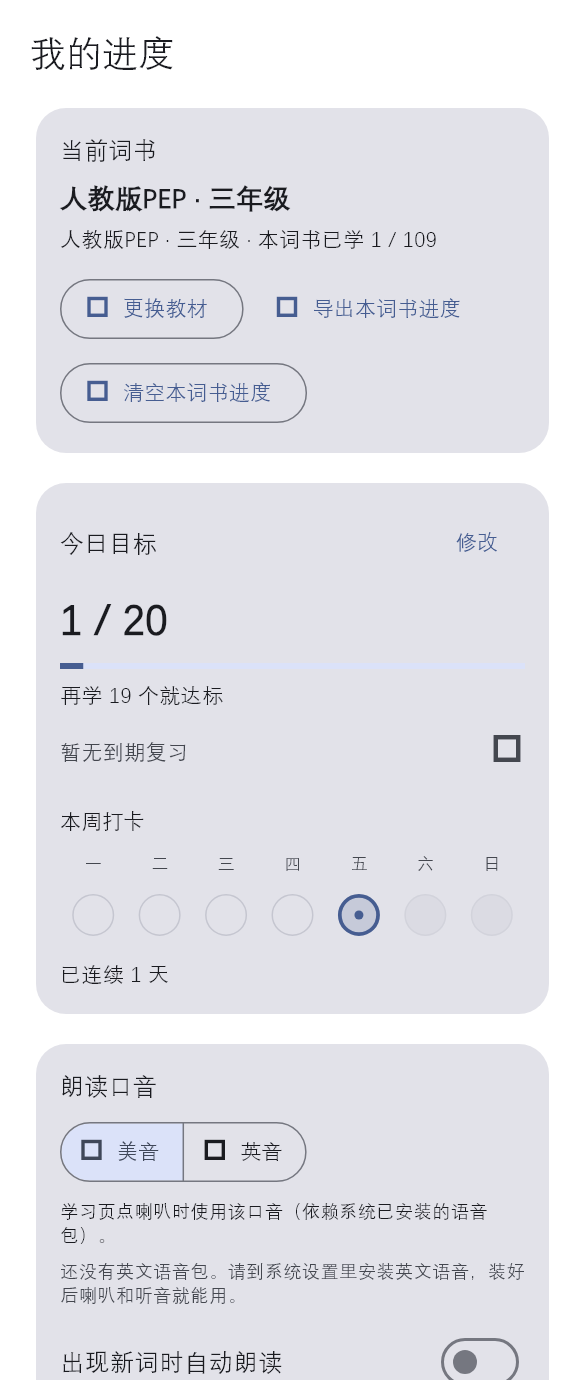
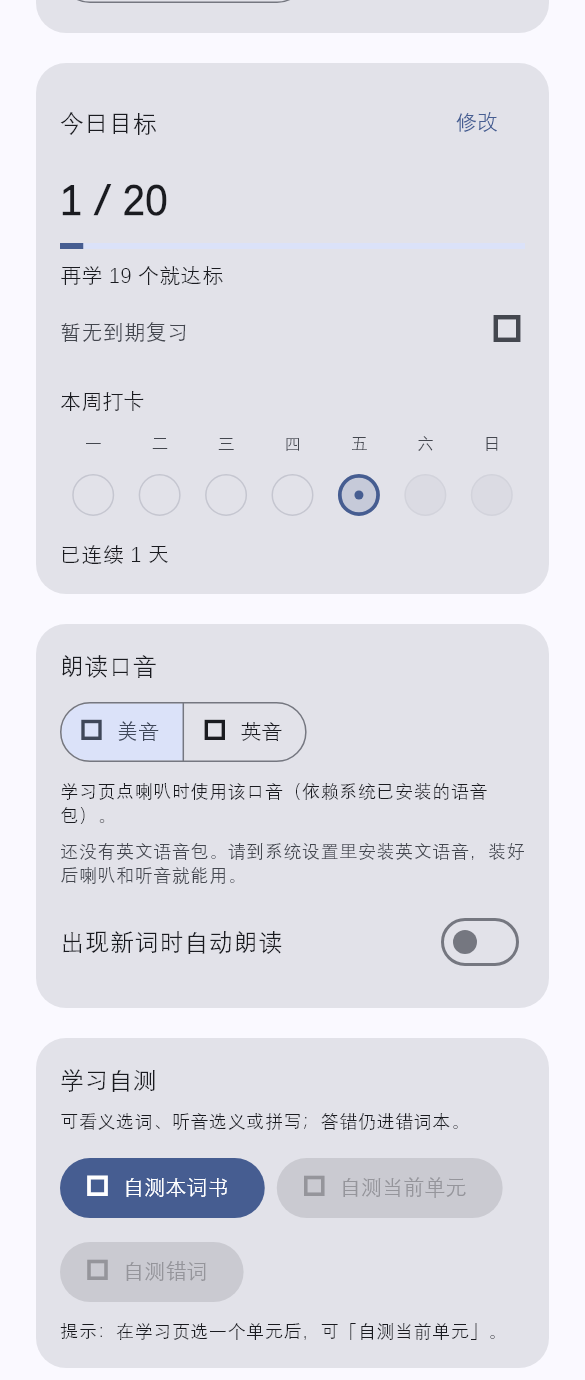
fix: accent-tts true light shot for UI reverify
Force ThemeMode.light + platformBrightness.light; paint surface
ColoredBox inside RepaintBoundary (no black letterbox); scroll
accent hint fully into frame. Acceptance 待复验.

diff --git a/test/accent_tts_shot_test.dart b/test/accent_tts_shot_test.dart
@@ -35,6 +35,7 @@ void main() {
   Future<void> capture(
     WidgetTester tester, {
     required ThemeData theme,
+    required Brightness brightness,
     required String outName,
   }) async {
     SharedPreferences.setMockInitialValues({
@@ -47,20 +48,28 @@ void main() {
     });
     tester.view.physicalSize = const Size(390, 920);
     tester.view.devicePixelRatio = 1.0;
+    tester.platformDispatcher.platformBrightnessTestValue = brightness;
     addTearDown(tester.view.resetPhysicalSize);
     addTearDown(tester.view.resetDevicePixelRatio);
+    addTearDown(tester.platformDispatcher.clearPlatformBrightnessTestValue);
     await tester.pumpWidget(const SizedBox.shrink());
     await tester.pump();
     final store = await ProgressStore.open();
     final speaker = FakeWordSpeaker()..voiceAvailable = false;
+    final themed = withCjk(theme);
     await tester.pumpWidget(
       MaterialApp(
         key: ValueKey(outName),
-        theme: withCjk(theme),
+        theme: themed,
+        darkTheme: themed,
+        themeMode: brightness == Brightness.dark ? ThemeMode.dark : ThemeMode.light,
         home: Scaffold(
+          backgroundColor: themed.colorScheme.surface,
           body: RepaintBoundary(
             key: const ValueKey('shot_root'),
-            child: MeScreen(
+            child: ColoredBox(
+              color: themed.colorScheme.surface,
+              child: MeScreen(
               key: ValueKey('me_$outName'),
               store: store,
               repo: WordbookRepository(),
@@ -73,6 +82,7 @@ void main() {
               onQuizUnit: () {},
               onQuizWrong: () {},
               onStartDueReview: () {},
+            ),
             ),
           ),
         ),
@@ -89,6 +99,12 @@ void main() {
       await tester.pump(const Duration(milliseconds: 50));
     }
     expect(find.byKey(const ValueKey('me_accent_tts_hint')), findsOneWidget);
+    // Bring accent card fully into view (hint near bottom of card).
+    final list = find.byType(Scrollable);
+    if (list.evaluate().isNotEmpty) {
+      await tester.drag(list.first, const Offset(0, -280));
+      await tester.pump(const Duration(milliseconds: 200));
+    }
 
     await tester.runAsync(() async {
       final boundary =
@@ -102,7 +118,7 @@ void main() {
   }
 
   testWidgets('capture accent-tts missing-voice screenshots', (tester) async {
-    await capture(tester, theme: AppTheme.light(), outName: 'accent-tts-light.png');
-    await capture(tester, theme: AppTheme.dark(), outName: 'accent-tts-dark.png');
+    await capture(tester, theme: AppTheme.light(), brightness: Brightness.light, outName: 'accent-tts-light.png');
+    await capture(tester, theme: AppTheme.dark(), brightness: Brightness.dark, outName: 'accent-tts-dark.png');
   }, skip: !update);
 }

diff --git a/docs/shots/accent-tts-ui-acceptance.md b/docs/shots/accent-tts-ui-acceptance.md
@@ -1,11 +1,14 @@
-# 插队 · 口音卡缺语音包明示 · UI 验收
+# 插队 · 口音卡缺语音包明示 · UI 验收（复验）
 
 **对应**：P2「缺系统语音包明示（口音卡）」  
 **截图前缀**：`accent-tts-`
 
+## 状态
+**待复验**（浅色截图打回已修）
+
 ## 环境
 
-- [x] 无包/探测失败态 浅色 → `accent-tts-light.png`
+- [x] 无包/探测失败态 **浅色** → `accent-tts-light.png`（已强制 ThemeMode.light + platformBrightness.light 重拍）
 - [x] 无包/探测失败态 深色 → `accent-tts-dark.png`
 
 ## 要点
@@ -15,6 +18,9 @@
 
 ## 设计师结论
 
-- 结论：（待 UI 验收）
-- 日期：
-- 验收人：单词UI设计
+- 结论：**待复验**
+- 日期：2026-10-23
+- 验收人：（待 UI）
+- 改点：
+  1. 文案本身 OK（沿用）。
+  2. `accent-tts-light.png` 已重拍为真浅色底；深色沿用。
